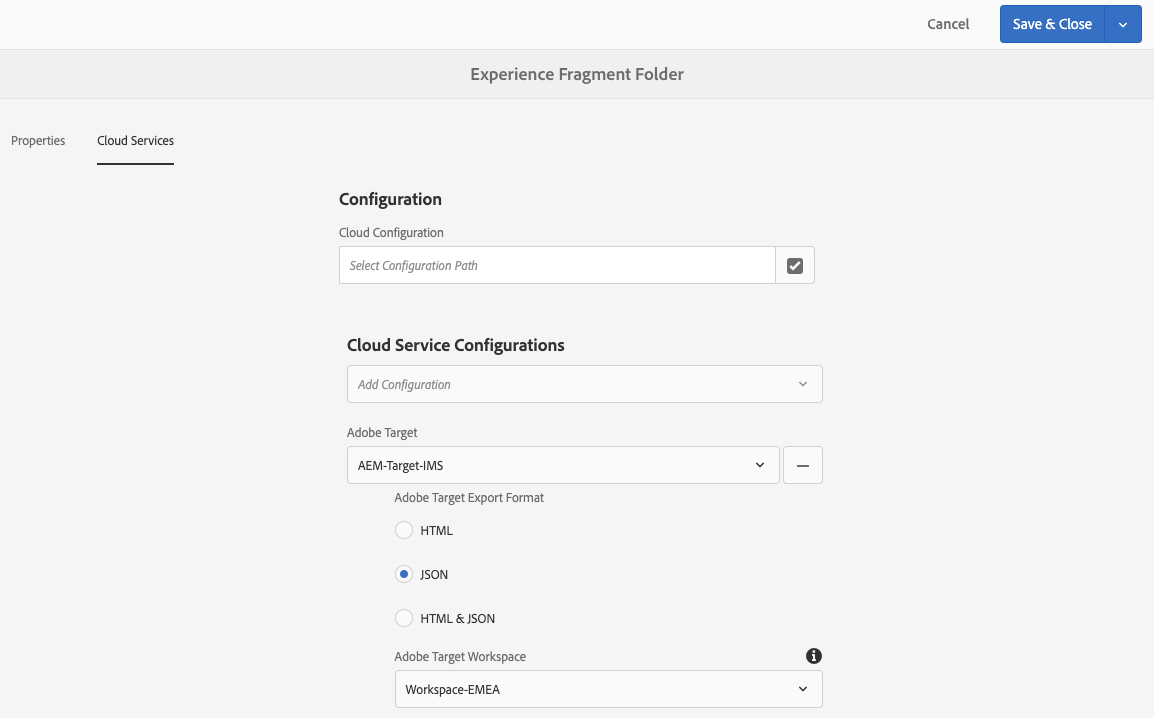
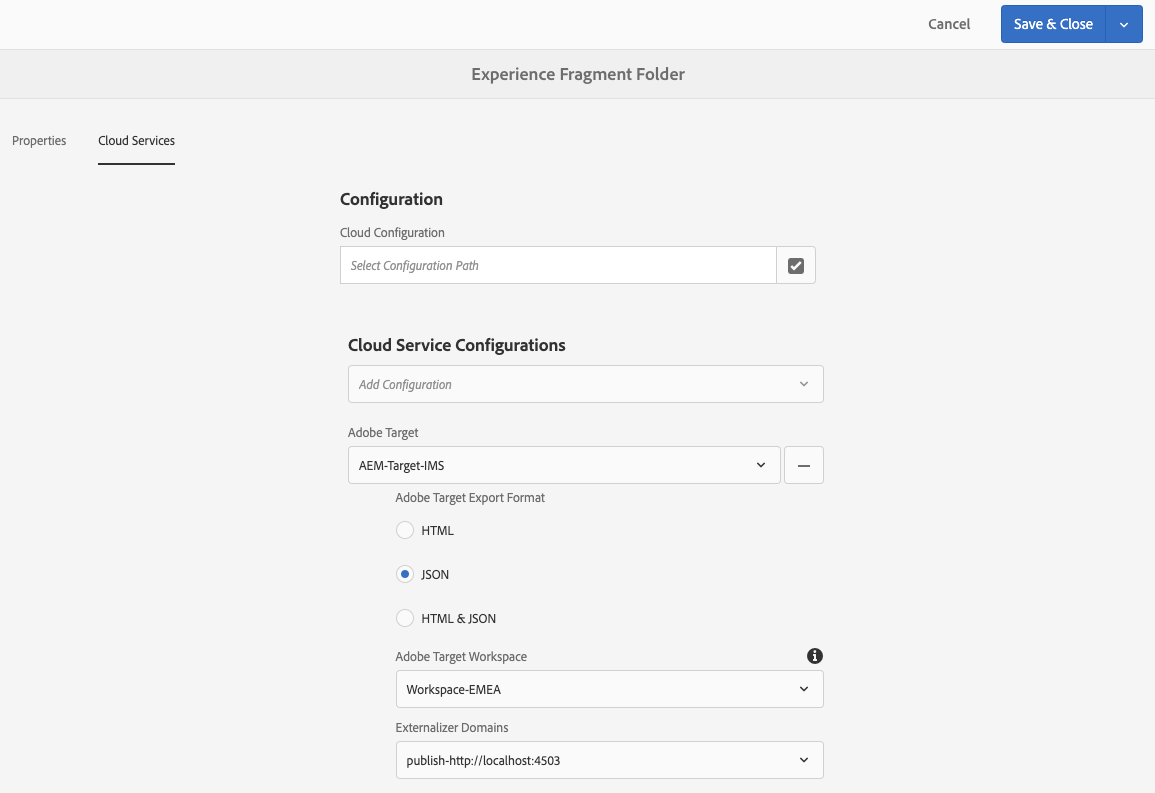
SP-201912-01

diff --git a/help/sites-administering/experience-fragments-target.md b/help/sites-administering/experience-fragments-target.md
@@ -16,7 +16,11 @@ docset: aem65
 
 >[!CAUTION]
 >
->Some functionality on this page requires the application of AEM 6.5.2.0.
+>Some functionality on this page requires the application of AEM 6.5.3.0.
+>
+>6.5.3.0
+>
+>* Externalizer Domains can now be selected.
 >
 >6.5.2.0:
 >
@@ -58,10 +62,14 @@ AEM Experience Fragments can be exported to the default workspace in Adobe Targe
 
 ## Prerequisites {#prerequisites}
 
+>[!CAUTION]
+>
+>Some functionality on this page requires the application of AEM 6.5.3.0.
+
 Various actions are required:
 
 1. You have to [integrate AEM with Adobe Target using Adobe I/O](/help/sites-administering/integration-ims-adobe-io.md).
-1. Experience Fragments are exported from the AEM author instance, so you need to [Configure the AEM Link Externalizer](/help/sites-administering/target-requirements.md#configuring-the-aem-link-externalizer) on the author instance to ensure that any references within the Experience Fragment are externalized for web delivery.
+2. Experience Fragments are exported from the AEM author instance, so you need to [Configure the AEM Link Externalizer](/help/sites-administering/target-requirements.md#configuring-the-aem-link-externalizer) on the author instance to ensure that any references within the Experience Fragment are externalized for web delivery.
 
    >[!NOTE]
    >
@@ -73,6 +81,7 @@ Before exporting a fragment you need to add the **Cloud Configuration** for **Ad
 
 * specify the format option(s) to be used for the export
 * select a Target workspace as destination
+* select an externalizer domain for rewriting references in the Experience Fragment (optional)
 
 The required options can be selected in **Page Properties** of the required folder and/or fragment; the specification will be inherited as necessary.
 
@@ -104,12 +113,18 @@ The required options can be selected in **Page Properties** of the required fold
     * the appropriate configuration
     * the required format option
     * an Adobe Target workspace
+    * if required - the externalizer domain
 
+>[!CAUTION]
+>
+>The externalizer domain is optional. An AEM externalizer is configured when you want the exported content to point to a specific *publish* domain. For more details see [Configuring the AEM Link Externalizer](/help/site-administering/../sites-administering/target-requirements.md#configuring-the-aem-link-externalizer).
+
+<!-- check image -->
    For example, for a folder:
 
-   ![Folder Cloud Services](assets/xf-target-integration-01.png "Folder Cloud Services")
+   ![Folder - Cloud Services](assets/xf-target-integration-01.png "Folder - Cloud Services")
 
-1. **Save & Close**.
+2. **Save & Close**.
 
 ## Exporting an Experience Fragment to Adobe Target {#exporting-an-experience-fragment-to-adobe-target}
 
